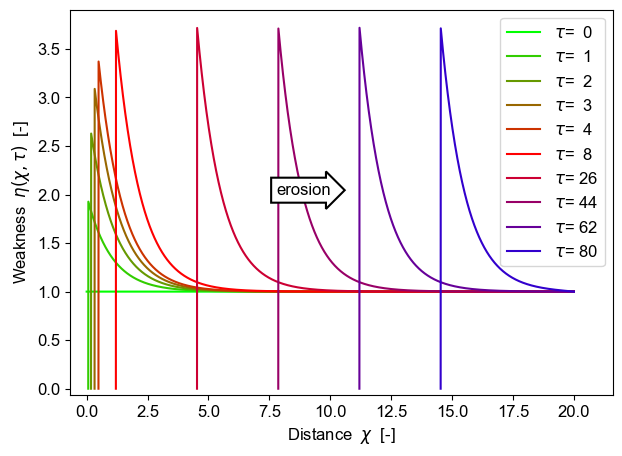
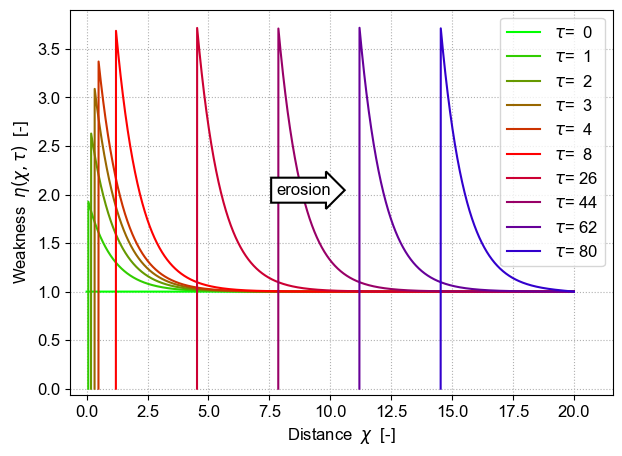
Overlay grids on most plots

diff --git a/src/wmbe/plot.py b/src/wmbe/plot.py
@@ -165,7 +165,7 @@ def plot_inoue_w_wetdryN(fig, ed, text_label=None):
                  color="k", size=text_label[2],
                  verticalalignment="center", horizontalalignment="center",
                  transform=axes.transAxes)
-        
+    plt.grid(ls=":")
         
 def plot_li_w_wetdryN(fig, ed, text_label=None):
     r"""
@@ -227,7 +227,7 @@ def plot_li_w_wetdryN(fig, ed, text_label=None):
                  color="k", size=text_label[2],
                  verticalalignment="center", horizontalalignment="center",
                  transform=axes.transAxes)
-        
+    plt.grid(ls=":")
         
 def plot_li_w_P(fig, ed, text_label=None):
     r"""
@@ -288,7 +288,7 @@ def plot_li_w_P(fig, ed, text_label=None):
                  color="k", size=text_label[2],
                  verticalalignment="center", horizontalalignment="center",
                  transform=axes.transAxes)
-            
+    plt.grid(ls=":")
             
 def plot_li_w_surface_normed_P(fig, ed, text_label=None):
     r"""
@@ -370,7 +370,7 @@ def plot_li_w_surface_normed_P(fig, ed, text_label=None):
                  color="k", size=text_label[2],
                  verticalalignment="center", horizontalalignment="center",
                  transform=axes.transAxes)
-        
+    plt.grid(ls=":")
         
 def plot_li_w_wetdryN_P(fig, ed, model_surface, text_label=None):
     r"""
@@ -421,6 +421,7 @@ def plot_li_w_wetdryN_P(fig, ed, model_surface, text_label=None):
     axes.set_xlabel("Proxy time  $N$  [-]")
     axes.set_ylabel("Proxy depth  $P$ [MPa]")
     axes.set_zlabel("Weakness  $w=$  [-]")
+    plt.grid(ls=":")
 
 def plot_nu_evolution(fig, ew):
     """
@@ -444,7 +445,7 @@ def plot_nu_evolution(fig, ew):
     plt.legend(loc="center right")
     plt.xlabel("Time  $\tau$  [-]")
     plt.ylabel("Front speed  $\\partial\\varphi/\\partial\\tau$  [-]")
-
+    plt.grid(ls=":")
 
 def plot_eta_evolution(fig, ew, tc=40, nd=2, text_label=None):
     r"""
@@ -514,7 +515,7 @@ def plot_eta_evolution(fig, ew, tc=40, nd=2, text_label=None):
     plt.legend(loc="upper right")
     plt.xlabel(r"Distance  $\chi$  [-]")
     plt.ylabel(r"Weakness  $\eta(\chi,\tau)$  [-]")
-
+    plt.grid(ls=":")
 
 def stability_check(tau,nu):
     """
@@ -754,7 +755,7 @@ def plot_nus_W(fig, em, do_loglog=True, nus_solns_list=None, text_label=None):
     plt.legend(loc="upper left")
     plt.xlabel("Weathering number  ${{W}}$  [-]")
     plt.ylabel("Erosion rate  $\\nu_\mathsf{ss}$  [-]")
-
+    # plt.grid(ls=":")
 
 def plot_nus_W_transition(fig, em, text_label=None):
     """
@@ -820,7 +821,7 @@ def plot_nus_W_transition(fig, em, text_label=None):
         r"Approx erosion rate deviation  "
         + r"$\nu_\mathsf{ss}^\mathrm{apx}/\nu_\mathsf{ss}$  [-]"
     )
-
+    # plt.grid(ls=":")
 
 def plot_v0_vs_w0(fig, em, k__=1, text_label=None):
     """
@@ -847,7 +848,7 @@ def plot_v0_vs_w0(fig, em, k__=1, text_label=None):
     plt.ylabel("$w_0$")
     plt.xlabel("$v_0$")
     plt.legend(loc="lower right")
-
+    plt.grid(ls=":")
 
 def plot_v0_vs_etas0(fig, em, text_label=None):
     """
@@ -875,7 +876,7 @@ def plot_v0_vs_etas0(fig, em, text_label=None):
     plt.xlim(0,3)
     plt.ylim(5,0)
     plt.legend(loc="lower right")
-
+    plt.grid(ls=":")
 
 def plot_channel_generic(fig, zy_list, text_labels=None, do_equal_aspect=False):
     """
@@ -919,7 +920,7 @@ def plot_channel_generic(fig, zy_list, text_labels=None, do_equal_aspect=False):
         alt_axes = axes.twiny()
         alt_axes.plot(zy[2], zy[0], label=zy[4], color="forestgreen")
         alt_axes.set_xlabel(zy[3], color="forestgreen")
-
+    plt.grid(ls=":")
 
 def plot_channel_w0_v0_W(fig, cw, text_label=None):
     """